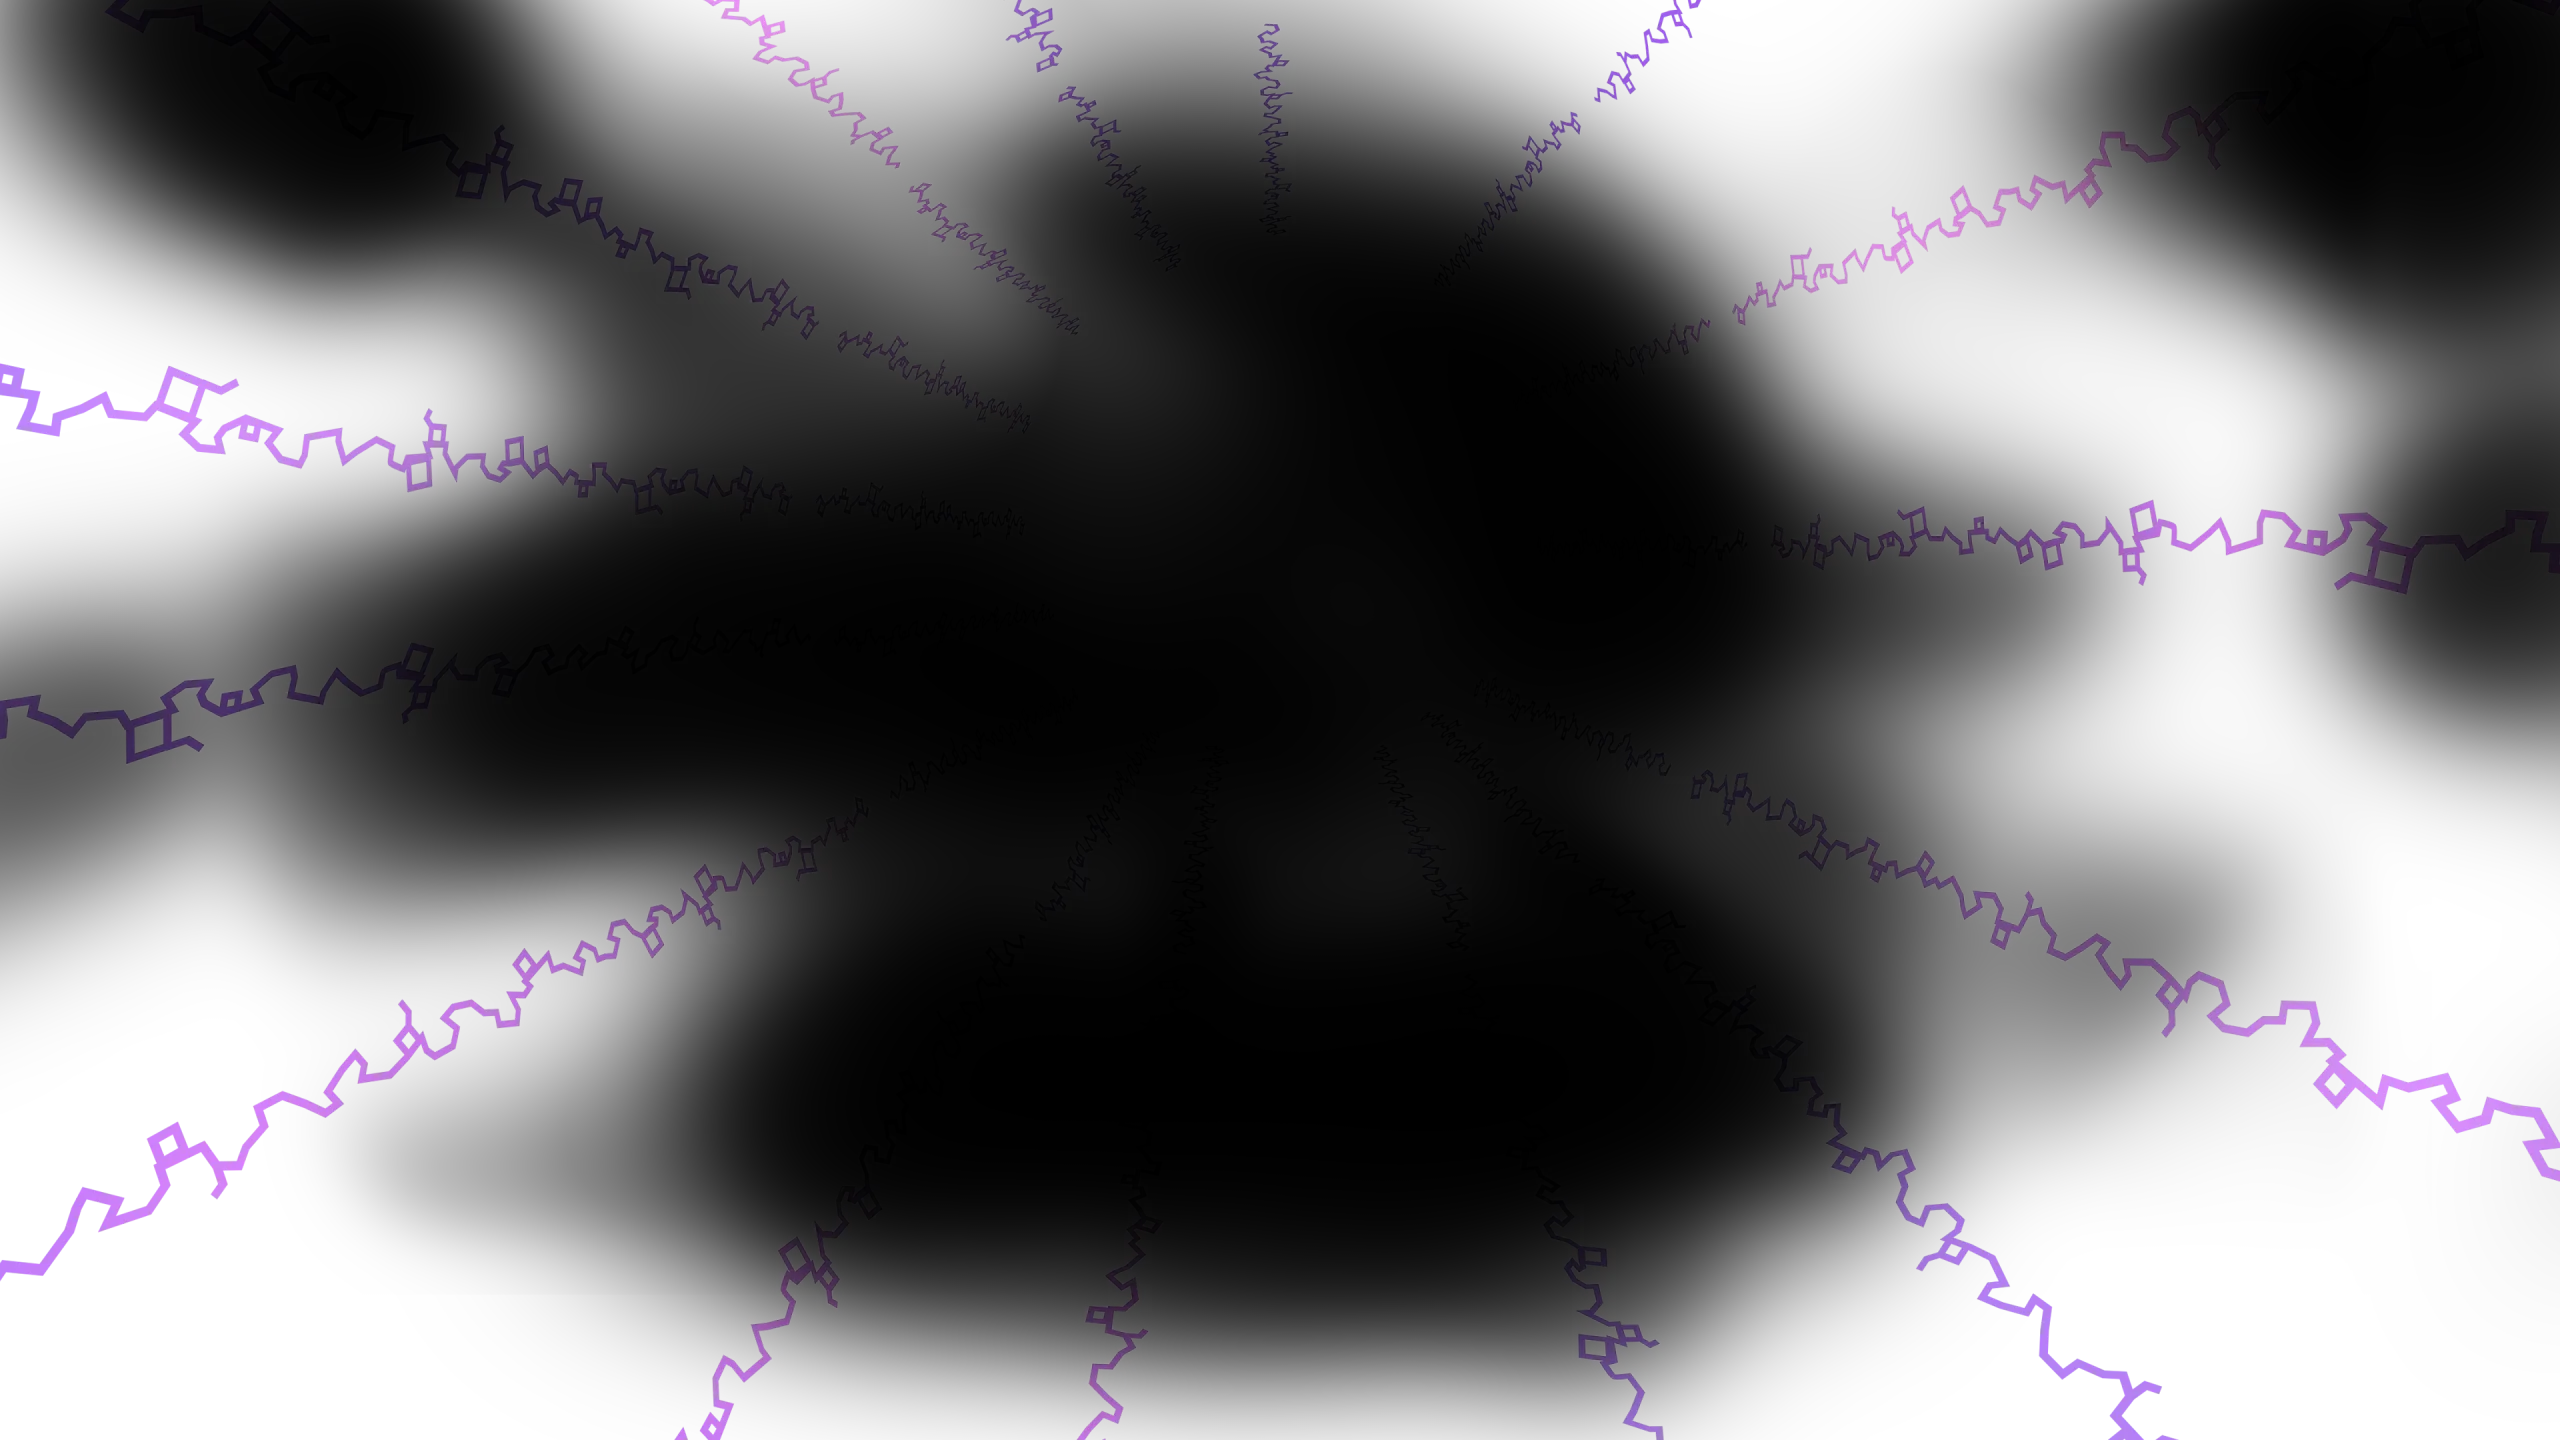
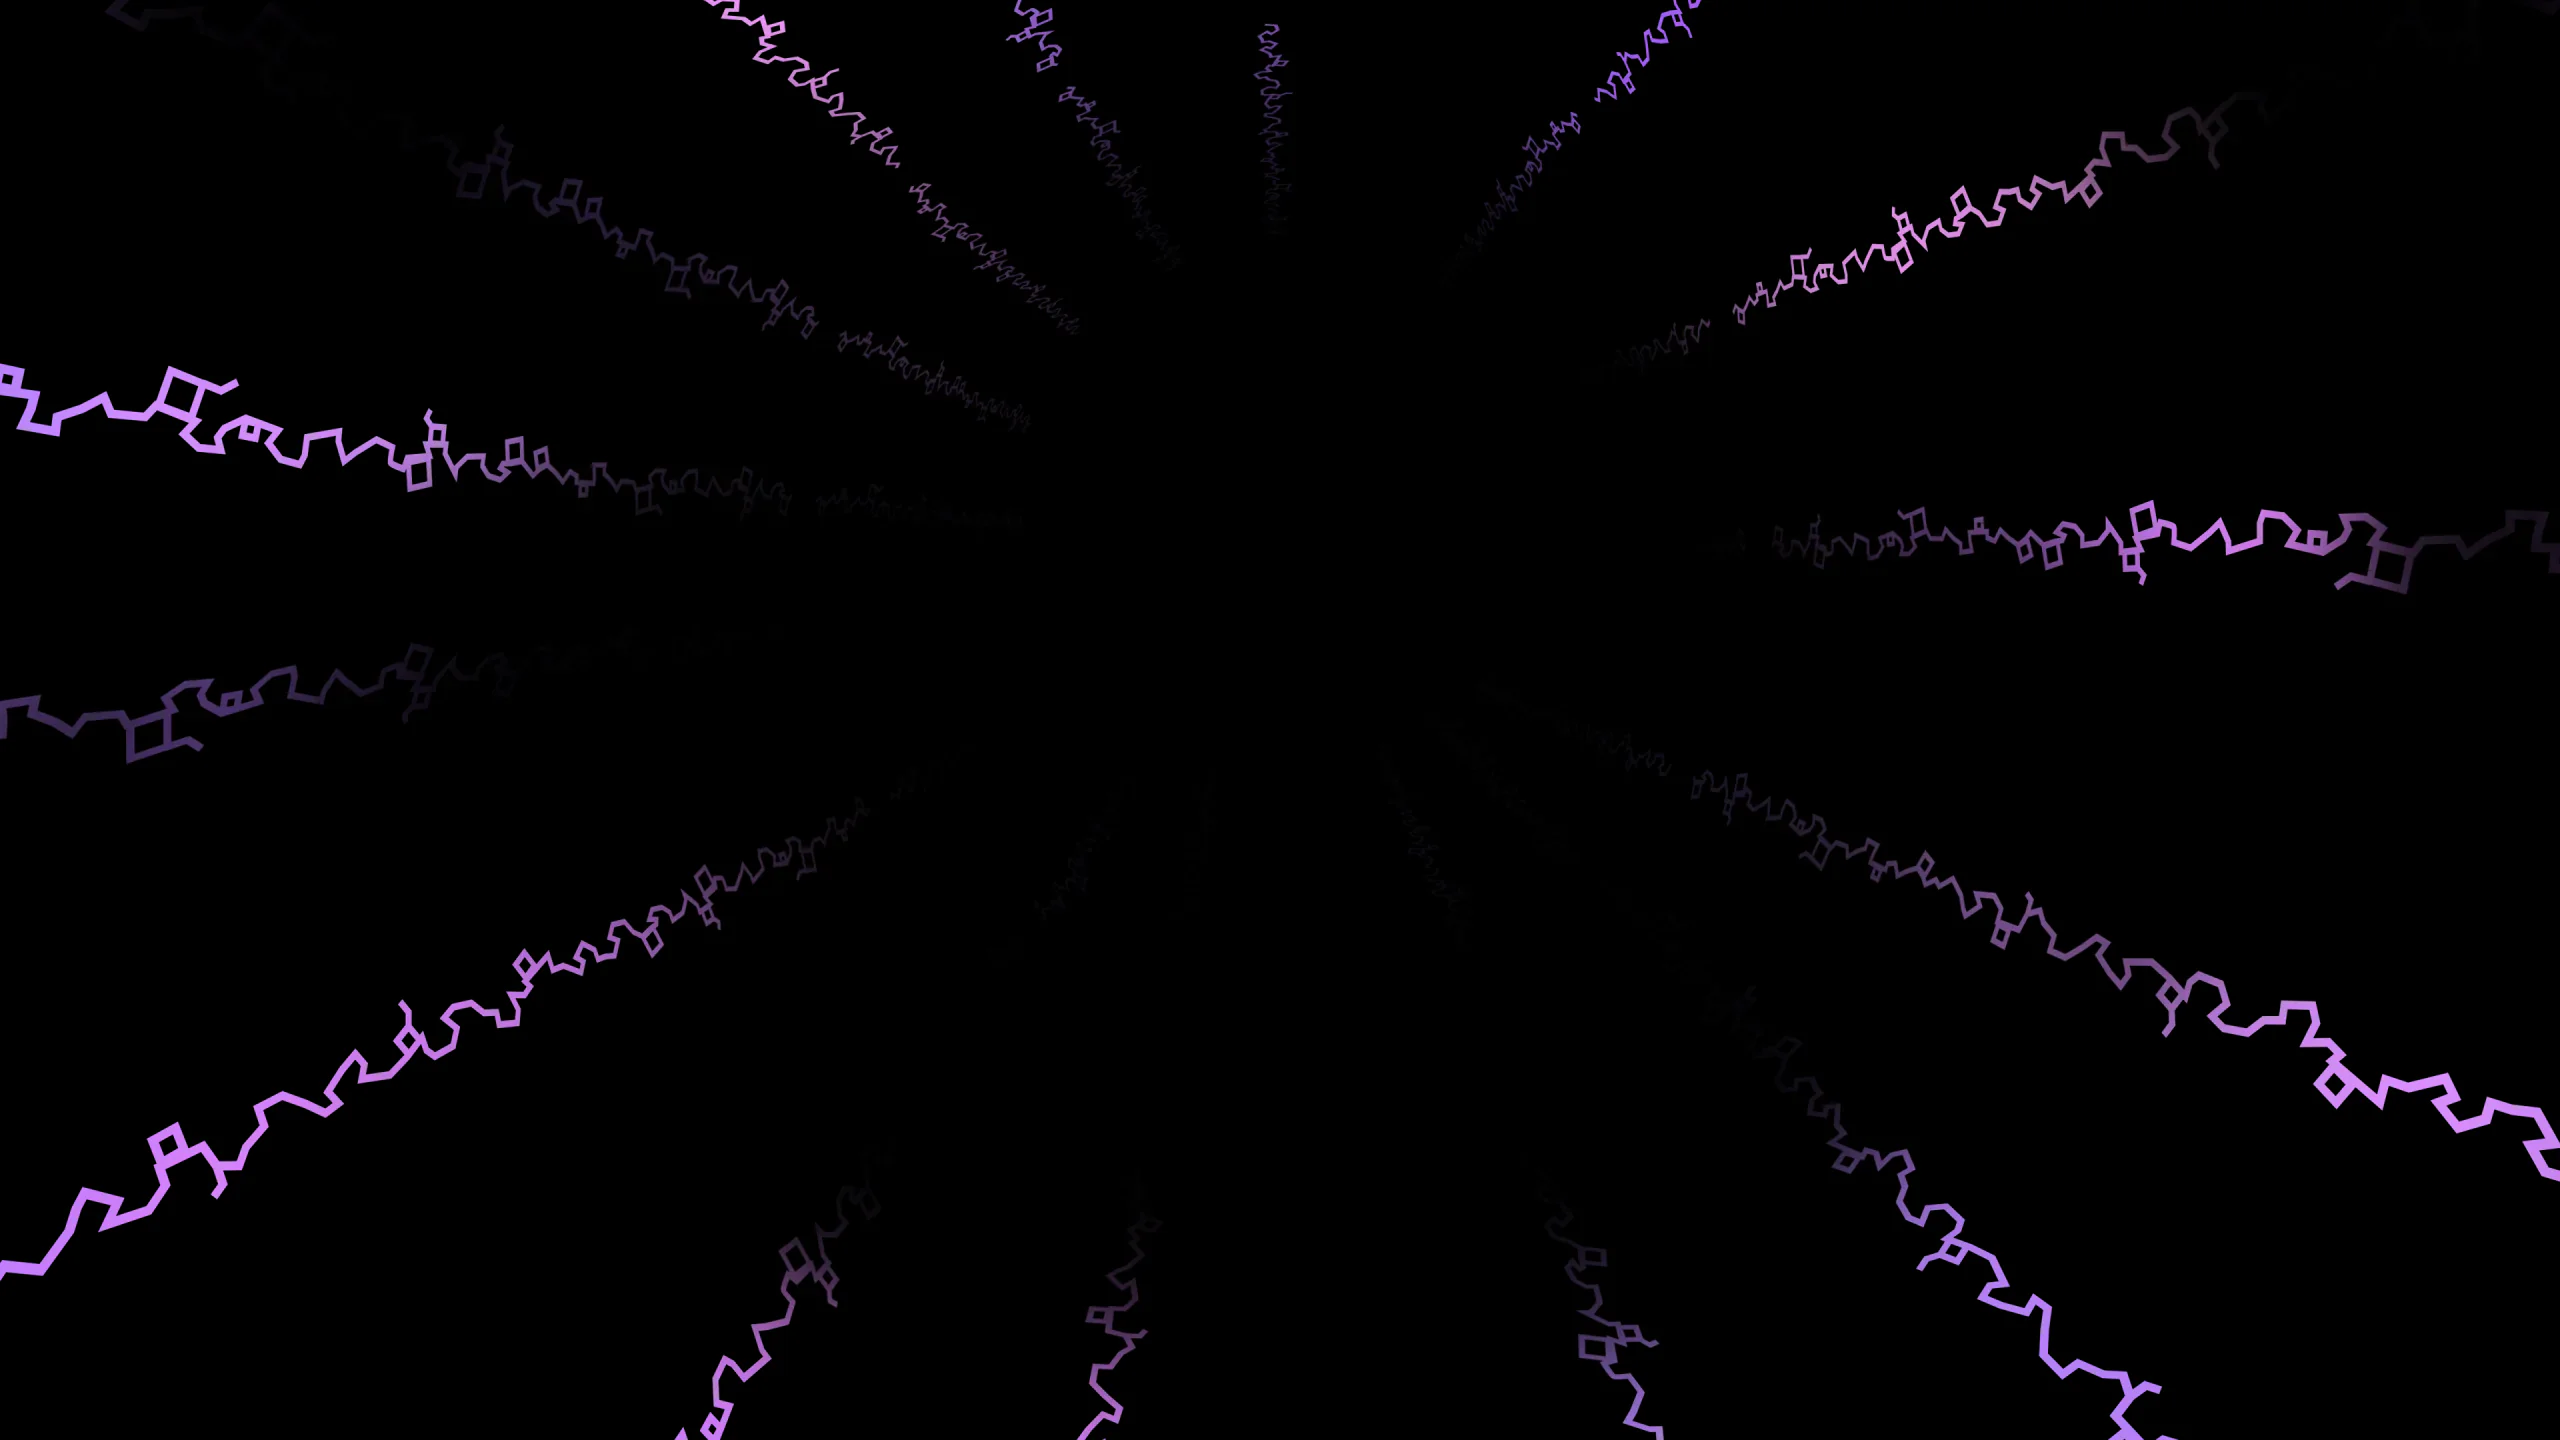
perf: swap in fallback text while fonts load and shrink the wake-up background
- Serve the two Androcles fonts as woff2 with font-display: swap.
- Flatten backgroundZaps.webp onto the black it is always drawn over and
  re-encode it lossy, 478KB -> 65KB with no visible change.

diff --git a/e2e/loading.e2e.ts b/e2e/loading.e2e.ts
@@ -1,0 +1,40 @@
+import { test, expect } from '@playwright/test'
+import { blockYoutube } from './game'
+
+test.beforeEach(async ({ page }) => {
+  await blockYoutube(page)
+})
+
+test('site fonts are woff2 with font-display swap', async ({ page }) => {
+  await page.goto('/')
+  const fontFaces = await page.evaluate(() =>
+    [...document.styleSheets]
+      .flatMap((sheet) => [...sheet.cssRules])
+      .filter((rule) => rule instanceof CSSFontFaceRule)
+      .map((rule) => ({
+        family: rule.style.getPropertyValue('font-family'),
+        display: rule.style.getPropertyValue('font-display'),
+        src: rule.style.getPropertyValue('src'),
+      })),
+  )
+  expect(fontFaces.map((fontFace) => fontFace.family).sort()).toEqual([
+    'AndroclesOpti-Heavy',
+    'AndroclesOpti-Regular',
+  ])
+  for (const fontFace of fontFaces) {
+    expect(fontFace.display).toBe('swap')
+    expect(fontFace.src).toMatch(/\.woff2"?\) format\("woff2"\)/)
+  }
+})
+
+test('wake-up background downloads in under 250KB', async ({ page }) => {
+  await page.goto('/wakeup')
+  const size = await page.evaluate(async () => {
+    const image = document.querySelector<HTMLImageElement>(
+      'img[src*="backgroundZaps"]',
+    )
+    const response = await fetch(image?.currentSrc ?? '')
+    return (await response.arrayBuffer()).byteLength
+  })
+  expect(size).toBeLessThan(250_000)
+})

diff --git a/src/index.css b/src/index.css
@@ -1,13 +1,15 @@
 @font-face {
   font-family: 'AndroclesOpti-Regular';
-  src: url(./fonts/AndroclesOpti-Regular.ttf.woff) format('woff');
+  src: url(./fonts/AndroclesOpti-Regular.woff2) format('woff2');
+  font-display: swap;
   font-weight: normal;
   font-style: normal;
 }
 
 @font-face {
   font-family: 'AndroclesOpti-Heavy';
-  src: url(./fonts/AndroclesOpti-Heavy.ttf.woff) format('woff');
+  src: url(./fonts/AndroclesOpti-Heavy.woff2) format('woff2');
+  font-display: swap;
   font-weight: normal;
   font-style: normal;
 }
